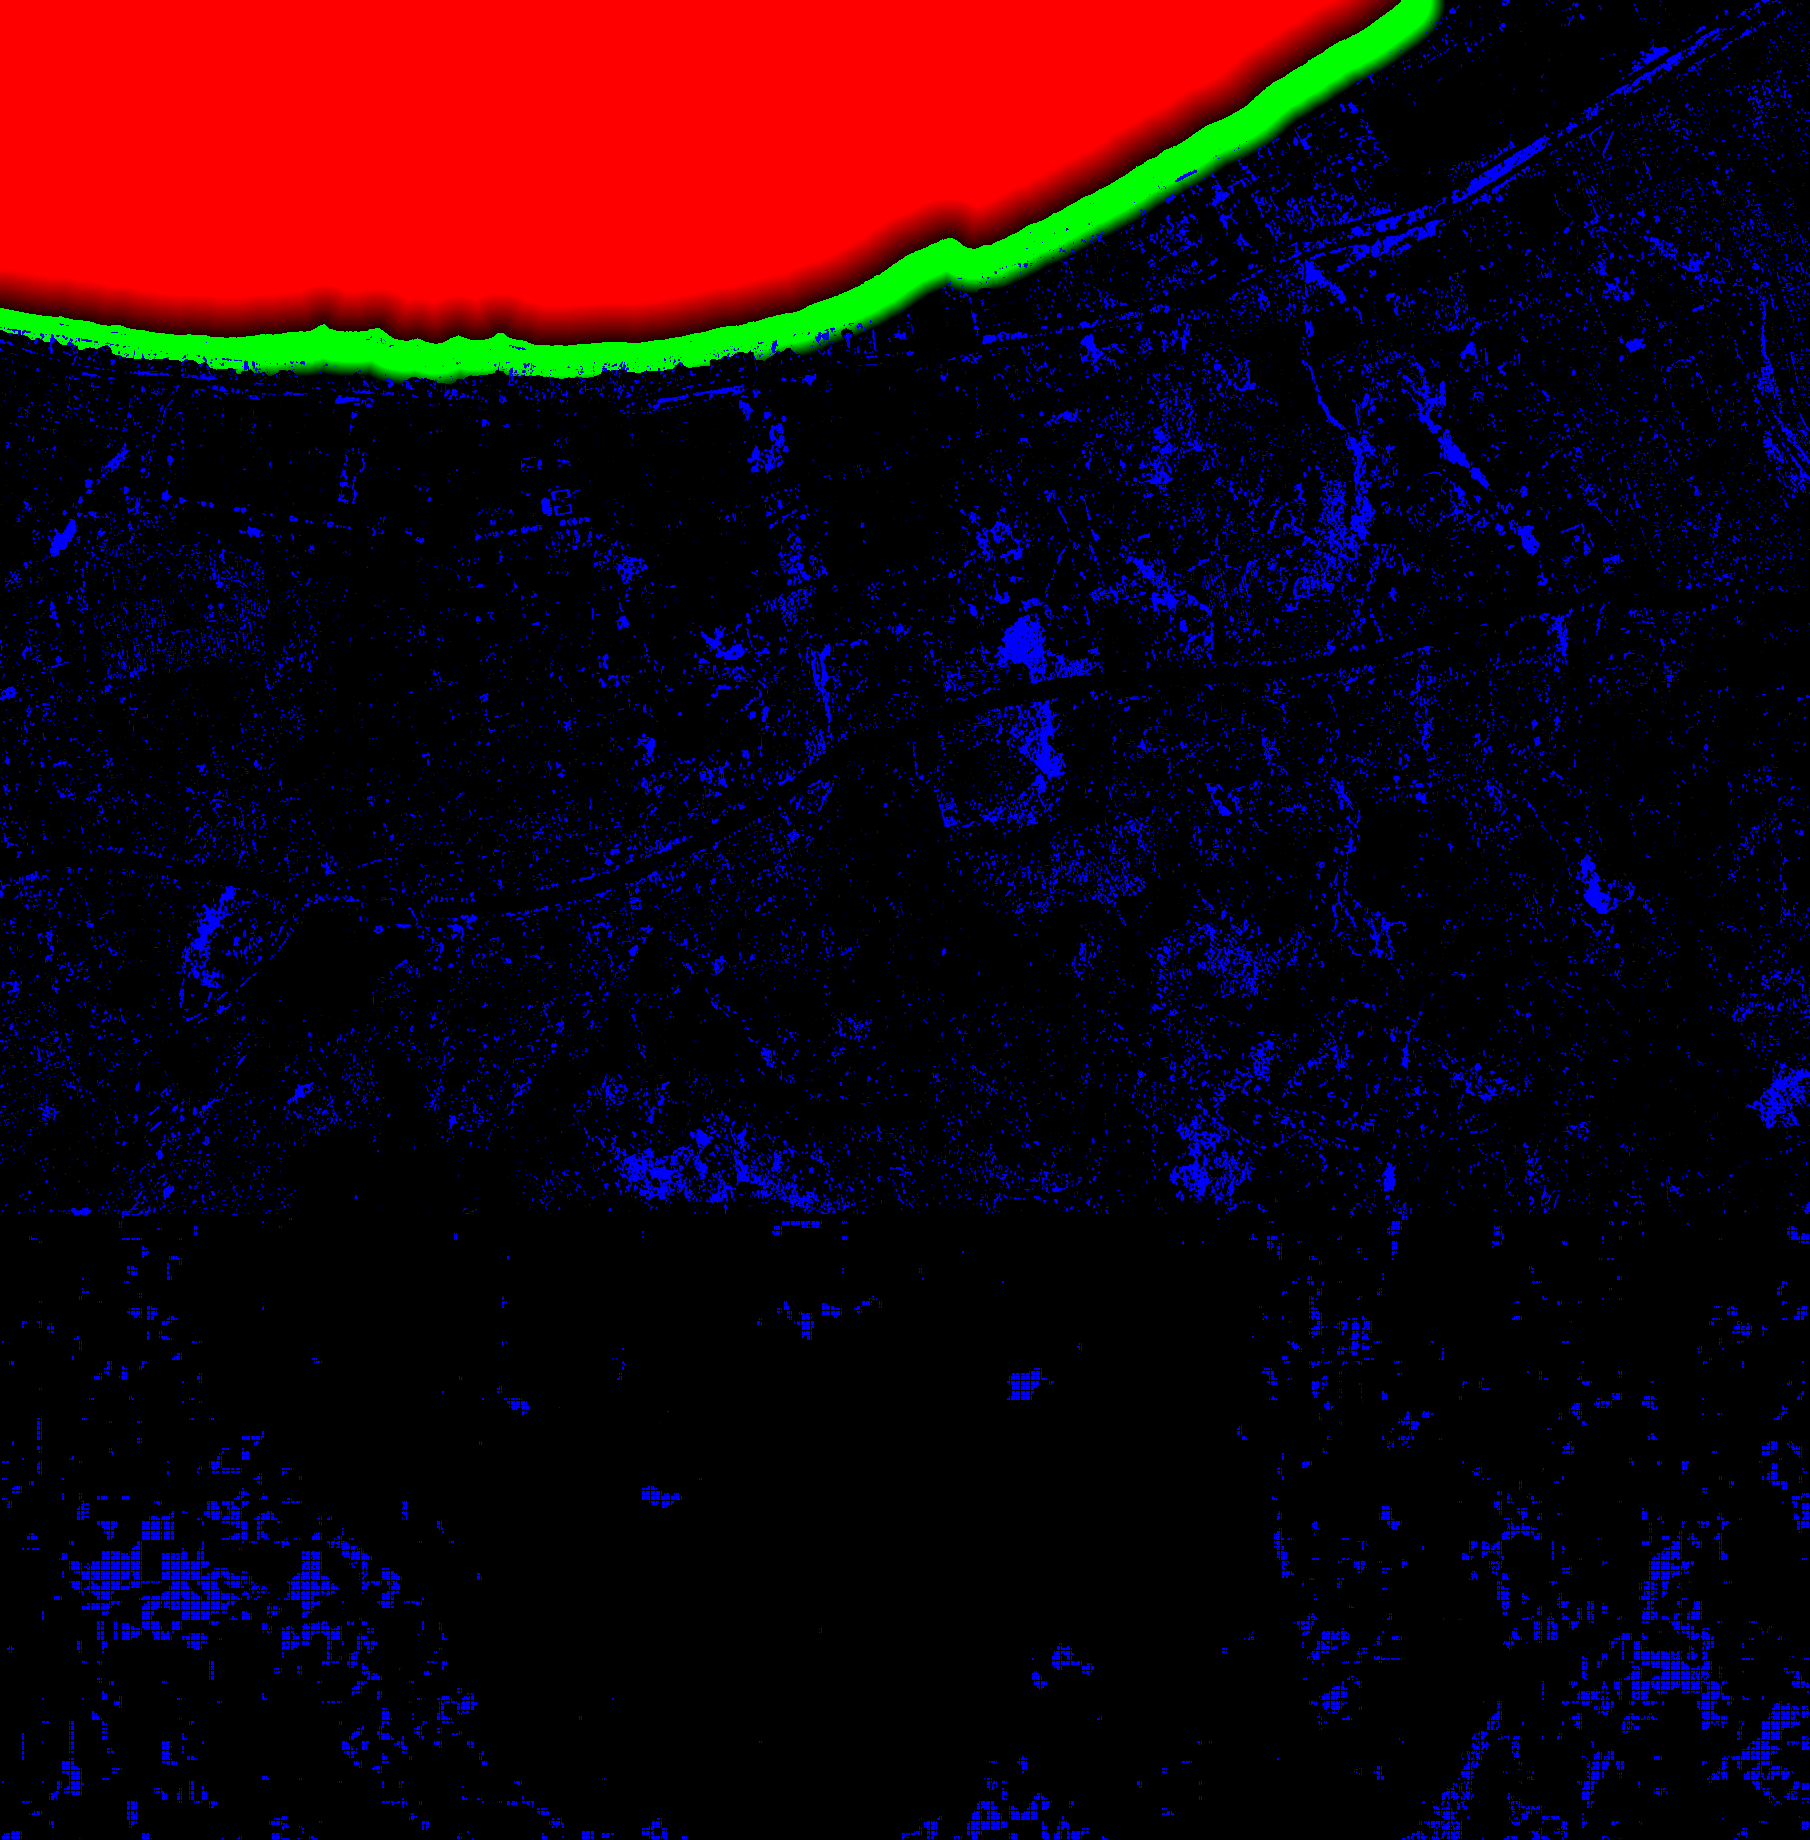
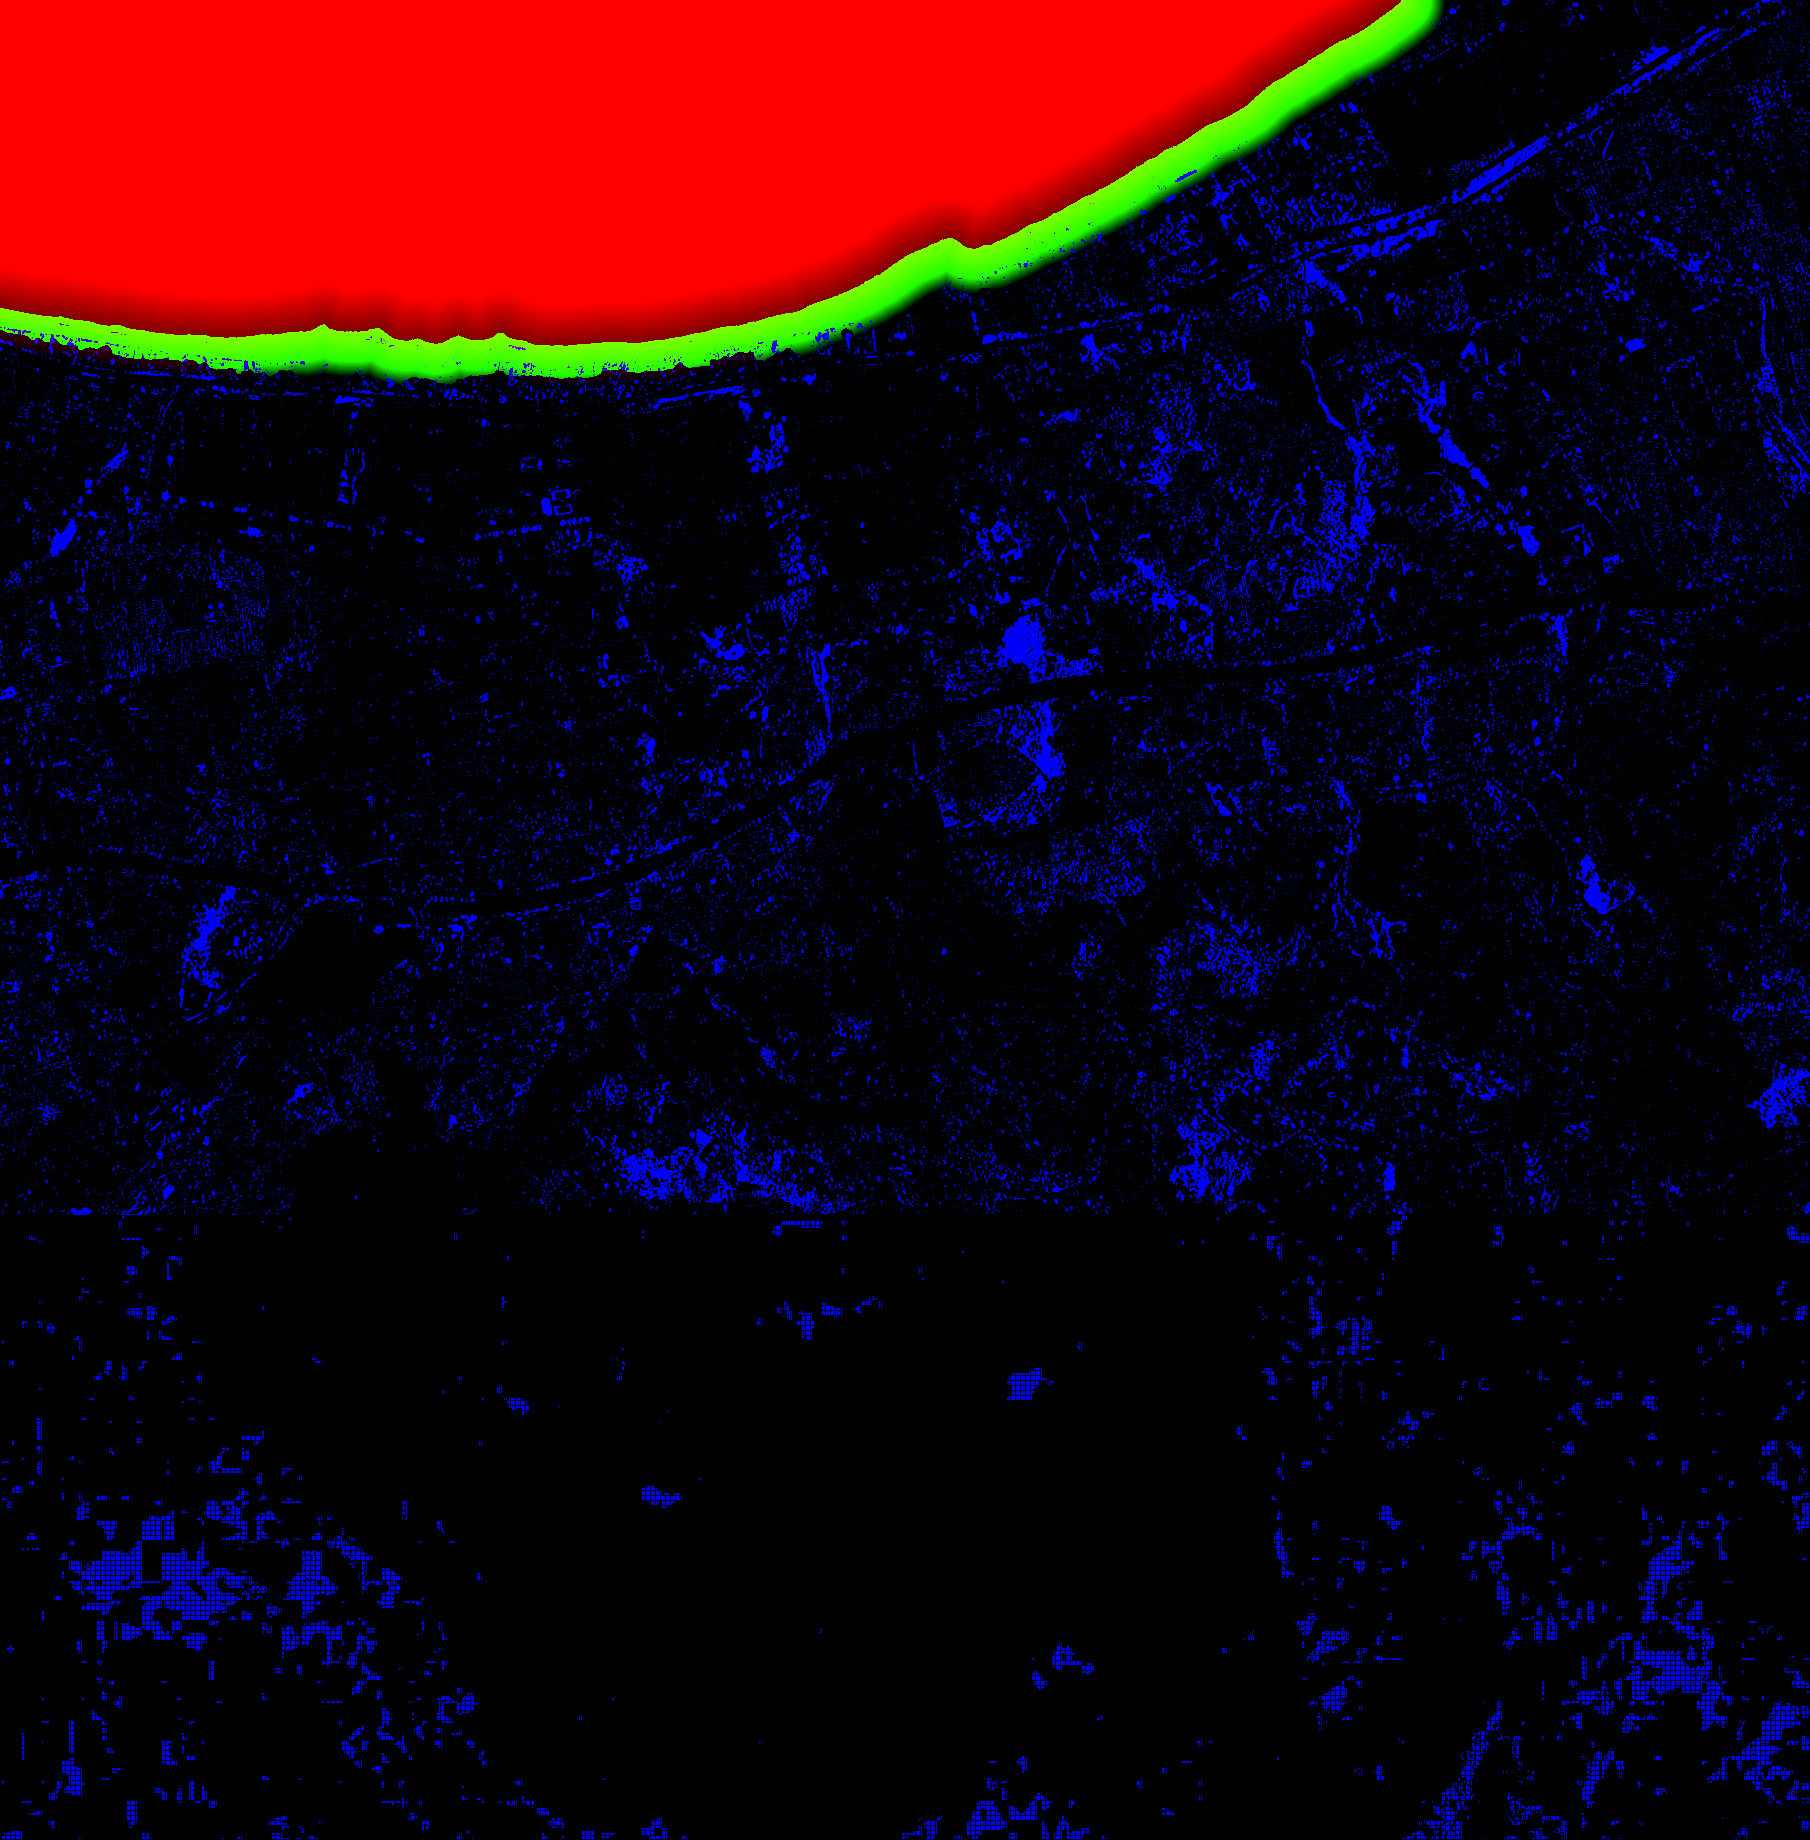
Riva sub-cella: R della copertura del suolo è la distanza con segno dalla costa (WIP)
Claude-Session: https://claude.ai/code/session_01Ea8SiNYksSzsEYTjnYVHg2

Changed region(s): [[0.0, 0.0, 0.8044, 0.2168]]

diff --git a/acquedolci-reale/src/water.js b/acquedolci-reale/src/water.js
@@ -53,8 +53,10 @@ export function buildWater(sunDir, { far = false } = {}) {
         ${far ? '' : `
         // mare del paese: solo dentro la copertura del suolo; fuori c'è quello dello sfondo
         vec4 lc = landcover(vW.xz);
-        if (lc.x < 0.06) discard;
-        shore = clamp((lc.x * 255.0 - 30.0) / 225.0 * 80.0, 0.0, 80.0);`}
+        // R = distanza con segno dalla riva (128 = riva, +1,6 per metro verso il largo)
+        float sd = (lc.x * 255.0 - 128.0) / 1.6;
+        if (sd < 0.0) discard;
+        shore = clamp(sd, 0.0, 80.0);`}
         float dist = distance(cameraPosition, vW);
         // onde: il mare da nord-ovest (il Tirreno davanti ad Acquedolci), più corte vicino a riva
         vec2 g = vec2(0.0);

diff --git a/acquedolci-reale/src/ortho.js b/acquedolci-reale/src/ortho.js
@@ -148,7 +148,7 @@ export function orthoMaterial(map, { nearNeutral = false, roof = false } = {}) {
         float near = 1.0 - smoothstep(0.05, 0.22, pxs);
         if (cover > 0.0) {
           vec4 lc = landcover(vWPos.xz);
-          float wSea = lc.x > 0.02 ? 1.0 : 0.0;
+          float wSea = smoothstep(-0.25, 0.25, (lc.x * 255.0 - 128.0) / 1.6); // R: distanza con segno dalla riva
           vec3 low = texture2D(map, vMapUv, 3.0).rgb;
           vec2 hu = vec2(vWPos.x - hrRect.x, hrRect.y - vWPos.z) / hrRect.z;
           vec2 he = min(hu, 1.0 - hu);
